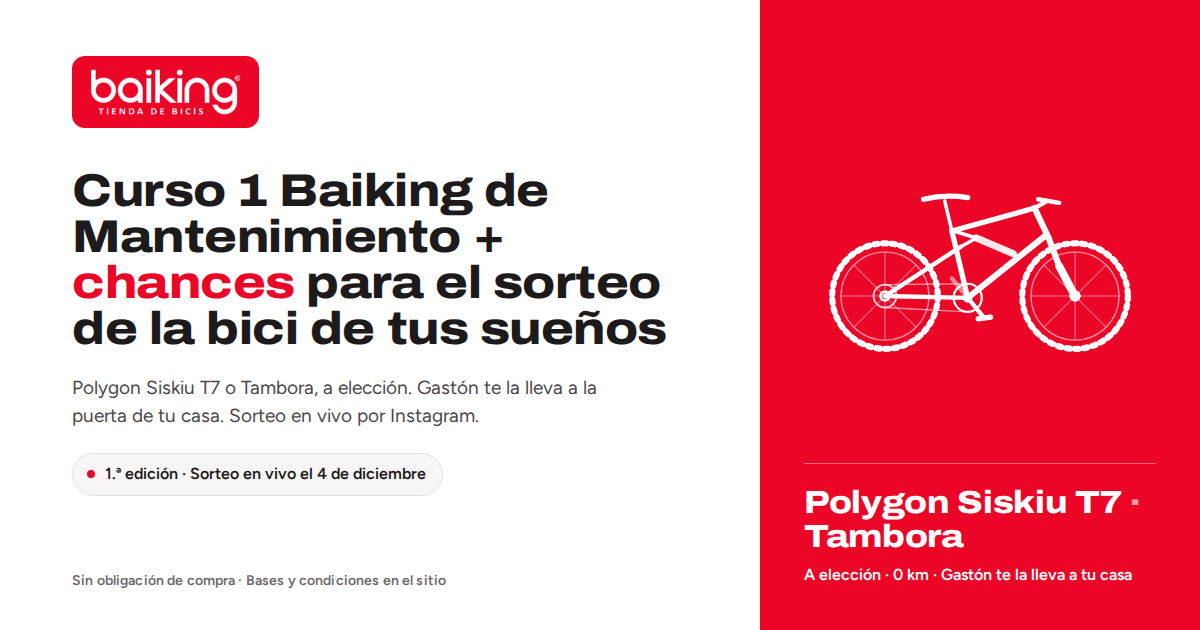
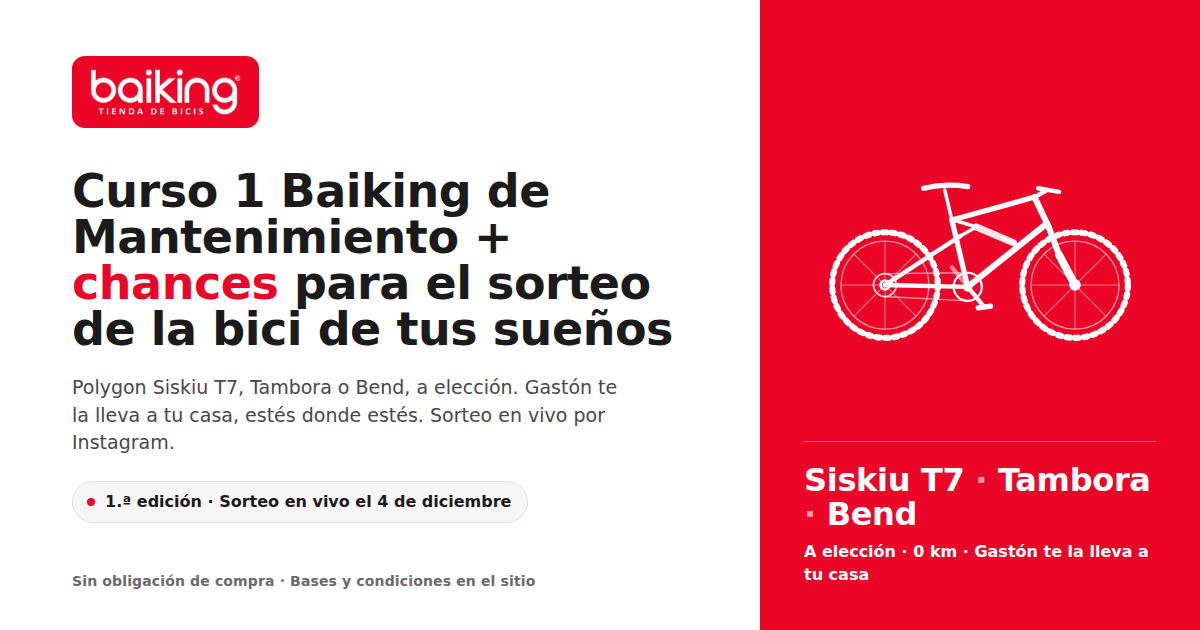
Tercera bici (Polygon Bend, gravel) y entrega personal estés donde estés
Claude-Session: https://claude.ai/code/session_019dv6uEG5rmUrQCWb93xgMR

diff --git a/bases-y-condiciones.html b/bases-y-condiciones.html
@@ -4,7 +4,7 @@
   <meta charset="utf-8">
   <meta name="viewport" content="width=device-width, initial-scale=1">
   <title>Bases y condiciones · Baiking Participá</title>
-  <meta name="description" content="Bases y condiciones de la promoción 'Curso Baiking + Participación' por una Polygon Siskiu T7 o Tambora. Sin obligación de compra.">
+  <meta name="description" content="Bases y condiciones de la promoción "Curso Baiking + Participación" por una Polygon Siskiu T7, Tambora o Bend. Sin obligación de compra.">
   <meta name="theme-color" content="#0b0f14">
   <link rel="icon" type="image/png" sizes="32x32" href="assets/img/favicon-32.png">
   <link rel="apple-touch-icon" href="assets/img/apple-touch-icon.png">
@@ -54,7 +54,7 @@
       <h3>5.3. Participación sin obligación de compra</h3>
       <p>Toda persona que cumpla la cláusula 4 puede registrar, una única vez por edición, una participación sin cargo completando el formulario indicado en la cláusula 3 con nombre, apellido, DNI, correo electrónico, teléfono y provincia. Se asignará una participación por persona (identificada por DNI), correlativa a las demás e integrada al mismo padrón. Los registros duplicados, incompletos o con datos falsos serán anulados.</p>
       <h3>5.4. Elección de la bicicleta</h3>
-      <p>Al registrarse, cada participante indica por cuál de las bicicletas de la cláusula 6 participa. Esa preferencia es informativa y puede modificarse hasta el momento de la entrega. Quien resulte ganador podrá elegir cualquiera de las dos bicicletas.</p>
+      <p>Al registrarse, cada participante indica por cuál de las bicicletas de la cláusula 6 participa. Esa preferencia es informativa y puede modificarse hasta el momento de la entrega. Quien resulte ganador podrá elegir cualquiera de las bicicletas de la cláusula 6.</p>
       <h3>5.5. Padrón</h3>
       <p>El padrón de participaciones (número, nombre, DNI) se cierra el <span data-cierre>—</span>. Solo integran el padrón las compras cuyo pago se encuentre acreditado a esa fecha y hora y los registros sin cargo completados hasta ese momento. Antes del sorteo, el Organizador informa públicamente la cantidad total de participaciones que integran el padrón.</p>
 
@@ -76,7 +76,7 @@
 
       <h2>8. Notificación, acreditación y entrega</h2>
       <p>El ganador será notificado el mismo día del sorteo al correo electrónico y al teléfono informados. Deberá responder y acreditar su identidad (DNI) dentro de los 7 (siete) días hábiles siguientes. Vencido ese plazo sin respuesta, o si no cumpliera los requisitos de estas Bases, el premio se asignará al primer suplente y, en su caso, al segundo, con idéntico plazo cada uno. Agotados los suplentes, el premio se declarará desierto.</p>
-      <p>La entrega se realizará dentro de los 30 (treinta) días corridos posteriores a la acreditación. Dentro del Área Metropolitana de Buenos Aires, el titular del Organizador entregará la bicicleta personalmente en el domicilio del ganador o en la tienda; fuera de esa zona, se enviará embalada al domicilio del ganador en cualquier punto de la República Argentina, sin costo para el ganador. El Organizador invitará al ganador a una salida en bicicleta con el equipo de Baiking para estrenar el premio, en fecha a coordinar; la salida es una invitación de cortesía y no forma parte del premio. La entrega se documentará mediante acta con firma del ganador y copia de su DNI.</p>
+      <p>La entrega se realizará dentro de los 30 (treinta) días corridos posteriores a la acreditación. El titular del Organizador entregará la bicicleta personalmente en el domicilio del ganador, en cualquier punto de la República Argentina, sin costo para el ganador, en fecha a coordinar. En esa misma visita, o en una fecha a coordinar, el Organizador invitará al ganador a una salida en bicicleta en su zona para estrenar el premio; la salida es una invitación de cortesía y no forma parte del premio. La entrega se documentará mediante acta con firma del ganador y copia de su DNI.</p>
 
       <h2>9. Gastos e impuestos</h2>
       <p>El envío del premio está a cargo del Organizador. <mark>[A definir con contador: tratamiento del impuesto a los premios (Ley 20.630) y de cualquier otro tributo que pudiera gravar el premio; indicar si queda a cargo del Organizador o del ganador.]</mark> Los gastos de uso, mantenimiento posterior al primer service y seguros son a cargo del ganador.</p>

diff --git a/index.html b/index.html
@@ -4,10 +4,10 @@
   <meta charset="utf-8">
   <meta name="viewport" content="width=device-width, initial-scale=1">
   <title>Baiking · Curso de mantenimiento + chances por una Polygon</title>
-  <meta name="description" content="Hacé el Curso Baiking de Mantenimiento y sumá chances para el sorteo de una Polygon Siskiu T7 o una Tambora, a tu elección. Sorteo en vivo por Instagram. Sin obligación de compra.">
+  <meta name="description" content="Hacé el Curso Baiking de Mantenimiento y sumá chances para el sorteo de una Polygon Siskiu T7, una Tambora o una Bend, a tu elección. Sorteo en vivo por Instagram. Sin obligación de compra.">
   <meta name="theme-color" content="#eb0627">
   <meta property="og:title" content="Baiking · Curso de mantenimiento + chances por una Polygon">
-  <meta property="og:description" content="Aprendé a cuidar tu bici con Gastón y participá por una Polygon Siskiu T7 o una Tambora. Sorteo en vivo por Instagram. Sin obligación de compra.">
+  <meta property="og:description" content="Aprendé a cuidar tu bici con Gastón y participá por una Polygon Siskiu T7, una Tambora o una Bend. Sorteo en vivo por Instagram. Sin obligación de compra.">
   <meta property="og:type" content="website">
   <meta property="og:url" content="https://participa.baiking.com.ar/">
   <meta property="og:image" content="https://participa.baiking.com.ar/assets/img/og.png">
@@ -78,9 +78,9 @@
     <section class="stats" aria-label="Lo esencial">
       <div class="container">
         <ul>
-          <li><svg><use href="#ico-gift"></use></svg><div><b>2 bicis a elección</b>Siskiu T7 o Tambora, 0 km</div></li>
+          <li><svg><use href="#ico-gift"></use></svg><div><b>3 bicis a elección</b>Siskiu T7, Tambora o Bend, 0 km</div></li>
           <li><svg><use href="#ico-live"></use></svg><div><b>Sorteo en vivo</b>Por Instagram, el <span data-fecha-sorteo-corta>—</span></div></li>
-          <li><svg><use href="#ico-users"></use></svg><div><b>Gastón te la lleva</b>En persona, y la estrenamos en una salida</div></li>
+          <li><svg><use href="#ico-users"></use></svg><div><b>Gastón te la lleva</b>En persona, estés donde estés</div></li>
           <li><svg><use href="#ico-shield"></use></svg><div><b>Sin obligación de compra</b>Participación gratuita disponible</div></li>
         </ul>
       </div>
@@ -92,7 +92,7 @@
         <div class="section-head reveal">
           <span class="eyebrow">El premio</span>
           <h2 class="h-section">Elegí tu <em>Polygon</em></h2>
-          <p class="lead">Trail o gravel: cuando te inscribís, elegís por cuál participás. Si ganás, te la entregamos 0 km, armada y regulada en el taller de Baiking.</p>
+          <p class="lead">Trail, all-road o gravel: cuando te inscribís, elegís por cuál participás. Si ganás, te la entregamos 0 km, armada y regulada en el taller de Baiking.</p>
         </div>
         <div class="bikes-grid" id="bikes-grid"></div>
         <ul class="about-points prize-includes reveal" id="premio-incluye"></ul>
@@ -111,7 +111,7 @@
           <li class="step reveal"><svg><use href="#ico-cart"></use></svg><h3>Elegí tus <span data-unidad-plural>chances</span></h3><p>Todas las opciones incluyen el curso completo. Cuantas más <span data-unidad-plural>chances</span> sumás, menos pagás por cada una.</p></li>
           <li class="step reveal"><svg><use href="#ico-lock"></use></svg><h3>Realizá el pago</h3><p>Completá el checkout y transferí el monto indicado. Subí tu comprobante de pago.</p></li>
           <li class="step reveal"><svg><use href="#ico-hash"></use></svg><h3>Recibí tus <span data-unidad-plural>chances</span></h3><p>Números únicos y correlativos, en pantalla y por mail, junto con el acceso al curso.</p></li>
-          <li class="step reveal"><svg><use href="#ico-live"></use></svg><h3>Sorteo en vivo</h3><p>El <span data-fecha-sorteo-corta>—</span> por Instagram. Si ganás, te llamamos ese mismo día y Gastón te lleva la bici en persona.</p></li>
+          <li class="step reveal"><svg><use href="#ico-live"></use></svg><h3>Sorteo en vivo</h3><p>El <span data-fecha-sorteo-corta>—</span> por Instagram. Si ganás, te llamamos ese mismo día y Gastón te lleva la bici en persona, estés donde estés.</p></li>
         </ol>
       </div>
     </section>

diff --git a/assets/css/styles.css b/assets/css/styles.css
@@ -417,11 +417,16 @@ h2 em,
   gap: 8px;
 }
 .shop-placeholder-art svg {
-  width: 46%;
+  width: 31%;
   color: var(--rojo);
 }
 .shop-placeholder-art svg + svg {
   color: var(--fg);
+}
+.shop-placeholder-art svg + svg + svg,
+.thumb[data-bici='bend'] svg,
+.bike-card[data-bici='bend'] .bike-art {
+  color: var(--fg-2);
 }
 .shop-placeholder p {
   margin: 20px auto 0;
@@ -458,7 +463,7 @@ h2 em,
 }
 .shop-thumbs {
   display: grid;
-  grid-template-columns: 1fr 1fr;
+  grid-template-columns: repeat(auto-fit, minmax(140px, 1fr));
   gap: 10px;
   margin-top: 14px;
 }
@@ -703,7 +708,7 @@ h2 em,
 /* ---------- bicis ---------- */
 .bikes-grid {
   display: grid;
-  grid-template-columns: repeat(2, minmax(0, 1fr));
+  grid-template-columns: repeat(auto-fit, minmax(280px, 1fr));
   gap: 20px;
 }
 .bike-card {
@@ -1485,7 +1490,7 @@ h2 em,
 .bike-picker,
 .pay-picker {
   display: grid;
-  grid-template-columns: 1fr 1fr;
+  grid-template-columns: repeat(auto-fit, minmax(150px, 1fr));
   gap: 10px;
 }
 .pay-picker {

diff --git a/assets/img/og.html b/assets/img/og.html
@@ -56,7 +56,7 @@
   <div class="copy">
     <div class="brand"><img src="logo-baiking-rojo.png" alt="Baiking"></div>
     <h1>Curso 1 Baiking de Mantenimiento + <em>chances</em> para el sorteo de la bici de tus sueños</h1>
-    <p class="lead">Polygon Siskiu T7 o Tambora, a elección. Gastón te la lleva a la puerta de tu casa. Sorteo en vivo por Instagram.</p>
+    <p class="lead">Polygon Siskiu T7, Tambora o Bend, a elección. Gastón te la lleva a tu casa, estés donde estés. Sorteo en vivo por Instagram.</p>
     <span class="pill"><i></i> {{edicion}} · Sorteo en vivo el {{fecha_sorteo}}</span>
     <div class="legal">Sin obligación de compra · Bases y condiciones en el sitio</div>
   </div>
@@ -78,7 +78,7 @@
       </svg>
     </div>
     <div class="meta">
-      <div class="name">Polygon Siskiu T7 <b>·</b> Tambora</div>
+      <div class="name">Siskiu T7 <b>·</b> Tambora <b>·</b> Bend</div>
       <div class="sub">A elección · 0 km · Gastón te la lleva a tu casa</div>
     </div>
   </div>

diff --git a/participa-sin-cargo.html b/participa-sin-cargo.html
@@ -4,7 +4,7 @@
   <meta charset="utf-8">
   <meta name="viewport" content="width=device-width, initial-scale=1">
   <title>Participación sin cargo · Baiking</title>
-  <meta name="description" content="Sin obligación de compra: registrá tu participación gratuita en la promoción de Baiking por una Polygon Siskiu T7 o Tambora.">
+  <meta name="description" content="Sin obligación de compra: registrá tu participación gratuita en la promoción de Baiking por una Polygon Siskiu T7, Tambora o Bend.">
   <meta name="theme-color" content="#0b0f14">
   <link rel="preconnect" href="https://fonts.googleapis.com">
   <link rel="preconnect" href="https://fonts.gstatic.com" crossorigin>
